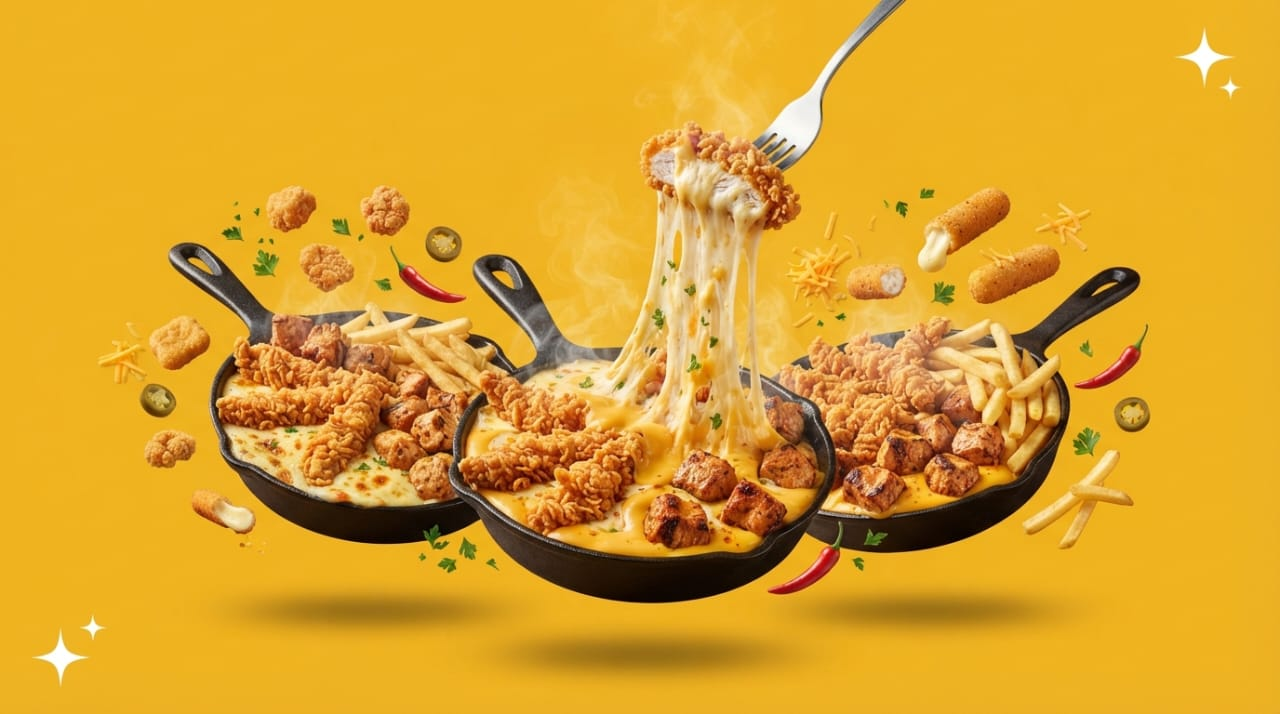
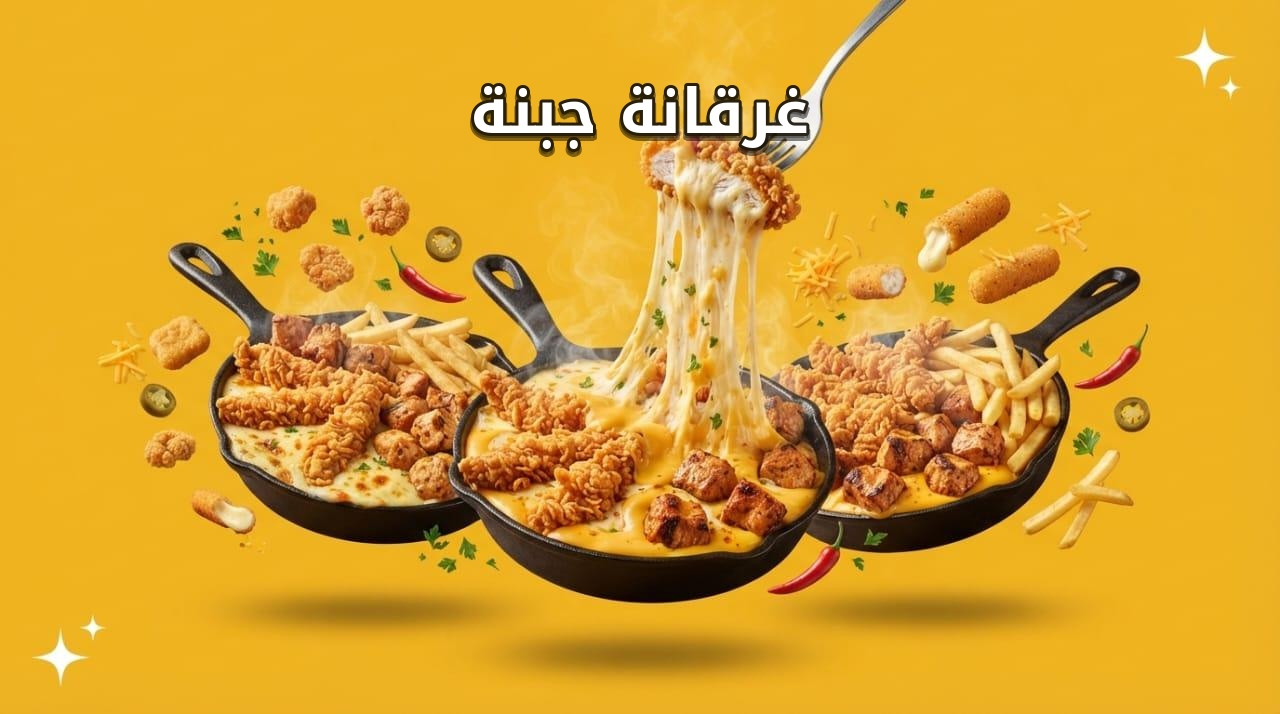
feat: embed bold Arabic category titles on all 9 cover photos

Changed region(s): [[0.3438, 0.0924, 0.6562, 0.2157]]

diff --git a/scripts/add_titles_to_covers.py b/scripts/add_titles_to_covers.py
@@ -1,0 +1,84 @@
+import os
+from PIL import Image, ImageDraw, ImageFont
+
+COVERS_DIR = "/home/mahmoud2415/Documents/work/Zinger-Restrant-with-React/public/covers"
+BACKUP_DIR = "/home/mahmoud2415/Documents/work/Zinger-Restrant-with-React/public/covers_raw"
+
+os.makedirs(BACKUP_DIR, exist_ok=True)
+
+CATEGORIES = [
+    ("burgers.jpeg", "برجر لحم"),
+    ("crispy_chicken.jpeg", "ساندوتشات كرانشي"),
+    ("crepes.jpeg", "كريب زينجر"),
+    ("pizza.jpeg", "بيتزا إيطالي"),
+    ("pasta.jpeg", "طواجن باستا"),
+    ("rolls.jpeg", "وتش رول"),
+    ("hawawshi.jpeg", "حواوشي إيطالي"),
+    ("melted_cheese.jpeg", "غرقانة جبنة"),
+    ("extras.jpeg", "الإضافات والصوصات"),
+]
+
+FONT_PATH = "/usr/share/fonts/truetype/noto/NotoKufiArabic-Bold.ttf"
+
+def process_cover(filename, title):
+    backup_path = os.path.join(BACKUP_DIR, filename)
+    img_path = os.path.join(COVERS_DIR, filename)
+    if not os.path.exists(backup_path):
+        if os.path.exists(img_path):
+            img_raw = Image.open(img_path)
+            img_raw.save(backup_path)
+        else:
+            print(f"Skipping {filename}, not found.")
+            return
+
+    img = Image.open(backup_path).convert("RGBA")
+    W, H = img.size
+
+    overlay = Image.new("RGBA", (W, H), (0, 0, 0, 0))
+    draw = ImageDraw.Draw(overlay)
+
+    # Larger, bolder font size (approx 8.5% of image height)
+    font_size = max(52, int(H * 0.088))
+    font = ImageFont.truetype(FONT_PATH, font_size)
+
+    bbox = draw.textbbox((0, 0), title, font=font, direction="rtl", language="ar")
+    text_w = bbox[2] - bbox[0]
+    text_h = bbox[3] - bbox[1]
+
+    pos_x = (W - text_w) // 2
+    pos_y = int(H * 0.075)
+
+    # Multi-layer soft drop shadow
+    shadow_color = (0, 0, 0, 160)
+    for offset_x, offset_y in [(0, 4), (0, 6), (2, 5), (-2, 5)]:
+        draw.text(
+            (pos_x + offset_x, pos_y + offset_y),
+            title,
+            font=font,
+            fill=shadow_color,
+            direction="rtl",
+            language="ar",
+            stroke_width=max(2, int(font_size * 0.04)),
+            stroke_fill=(0, 0, 0, 120),
+        )
+
+    # Main text with crisp dark outline for maximum pop
+    stroke_w = max(3, int(font_size * 0.045))
+    draw.text(
+        (pos_x, pos_y),
+        title,
+        font=font,
+        fill=(255, 255, 255, 255),
+        direction="rtl",
+        language="ar",
+        stroke_width=stroke_w,
+        stroke_fill=(20, 15, 5, 230),
+    )
+
+    final_img = Image.alpha_composite(img, overlay).convert("RGB")
+    final_img.save(img_path, quality=96)
+    print(f"Updated {filename} -> '{title}'")
+
+if __name__ == "__main__":
+    for filename, title in CATEGORIES:
+        process_cover(filename, title)
